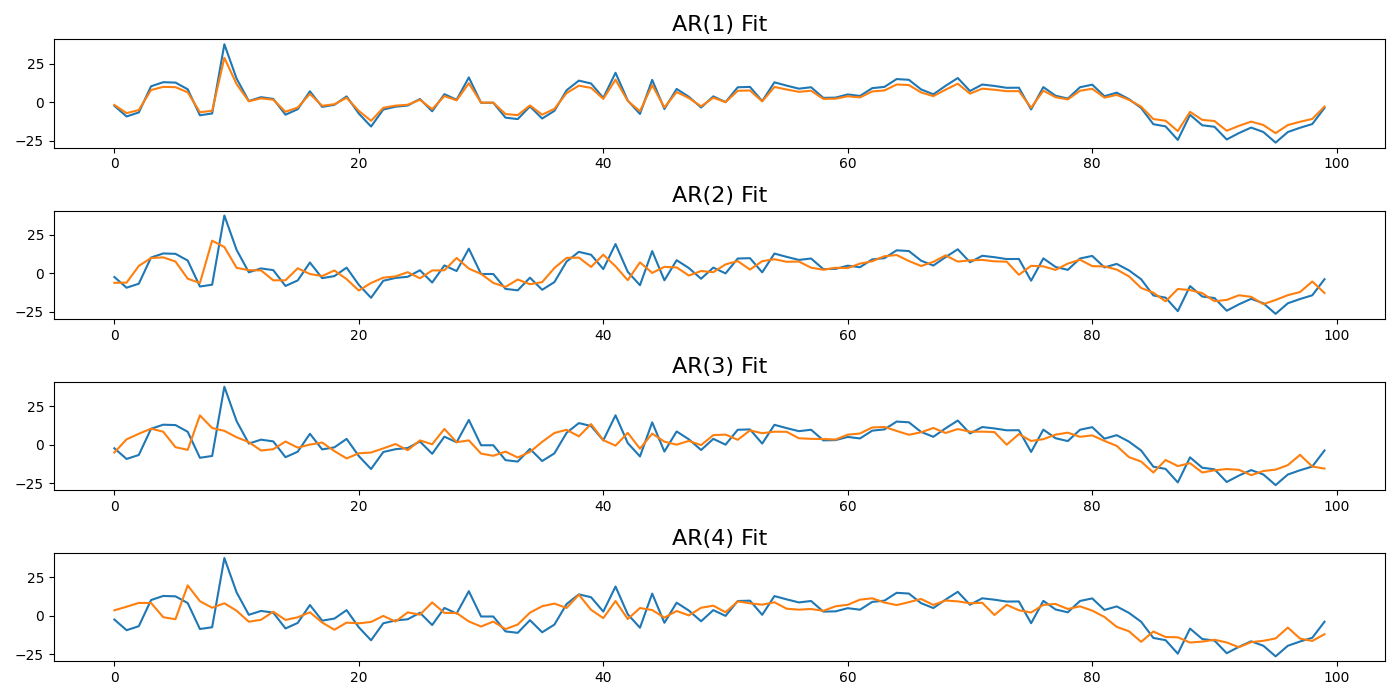
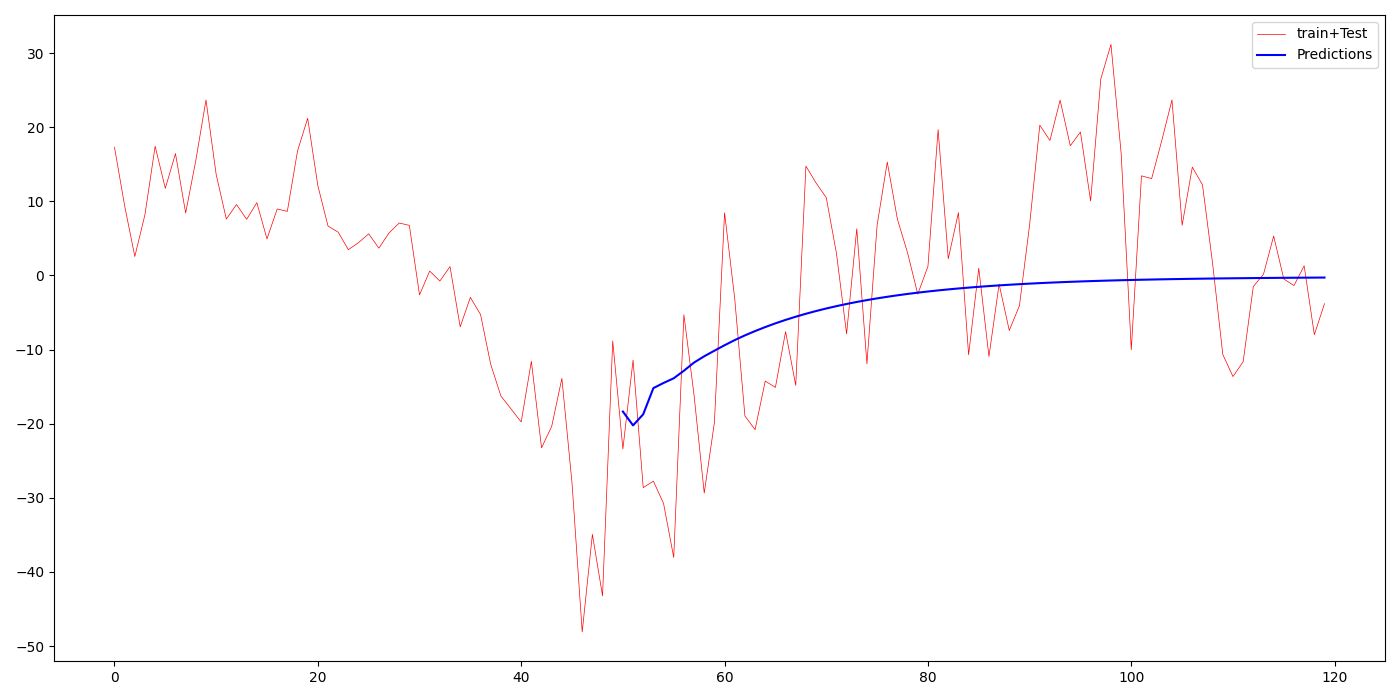
adding criteria

diff --git a/code/Ass1/sun.py b/code/Ass1/sun.py
@@ -1,4 +1,8 @@
 """https://www.machinelearningplus.com/time-series/time-series-analysis-python/"""
+import warnings
+
+warnings.filterwarnings("ignore")
+
 import math
 import os
 
@@ -13,6 +17,8 @@ from sklearn.metrics import mean_squared_error
 from statsmodels.graphics.tsaplots import plot_acf, plot_pacf
 from statsmodels.tsa import seasonal, stattools
 from statsmodels.tsa.ar_model import AutoReg
+from statsmodels.tsa.arima_model import ARIMA
+
 
 plt.rcParams["figure.figsize"] = (14, 7)
 a = "Ass1_D2_"
@@ -353,7 +359,6 @@ plt.savefig(os.path.join(fig_dir, a + "PACF_ACF_series.png"))
 #########               stationary test: Lag Plots                ##########
 ############################################################################
 
-'''(Points get wide and scattered with increasing lag -> lesser correlation)\n"'''
 print("[INFO] Lag plot for residual component...")
 
 fig, axes = plt.subplots(2, 2, sharex=True, sharey=True, dpi=100)
@@ -394,6 +399,8 @@ plt.savefig(os.path.join(fig_dir, a + "Lag_Plots_2_diff.png"))
 """
 https://towardsdatascience.com/trend-seasonality-moving-average-auto-regressive-model-my-journey-to-time-series-data-with-edc4c0c8284b
 """
+
+
 X = decomposition_STL.resid.values
 
 plt.figure()
@@ -416,12 +423,15 @@ RMS_list = list()
 cof_list = list()
 ord_list = list()
 col_list = list()
+mae_list = list()
+mpe_list = list()
+cor_list = list()
 
 
 for idx, ar_order in enumerate(ar_orders):
 
     print("[INFO] train autoregression...")
-    model = AutoReg(train, lags=ar_order)
+    model = ARIMA(train, order=(ar_order, 0, 0))
     model_fit = model.fit()
 
     fitted_model_dict[ar_order] = model_fit
@@ -434,9 +444,20 @@ for idx, ar_order in enumerate(ar_orders):
     predictions = model_fit.predict(
         start=len(train), end=len(train) + len(test) - 1, dynamic=False
     )
-    rmse = np.sqrt(mean_squared_error(test, predictions))
-    print("\n[INFO] RMS Error: {:1.2f}".format(rmse))
-    RMS_list.append("{:2.3f}".format(rmse))
+
+    RMS_list.append("{:2.3f}".format(np.sqrt(mean_squared_error(test, predictions))))
+    mae_list.append("{:2.3f}".format(np.mean(np.abs(predictions - test))))
+    mpe_list.append("{:2.3f}".format(np.mean((predictions - test) / test)))
+    cor_list.append("{:2.3f}".format(np.corrcoef(predictions, test)[0, 1]))
+
+    plt.figure()
+    xpos = np.arange(len(X))
+    plt.plot(X[2700:], "r", linewidth=0.5)
+    plt.plot(
+        xpos[len(X) - n_predict - 2700 : len(X) - 2700], predictions[:], color="blue"
+    )
+    plt.legend(["train+Test", "Predictions"])
+    plt.savefig(os.path.join(fig_dir, a + "_" + str(idx + 1) + "_AR2.png"))
 
 
 plt.tight_layout()
@@ -451,24 +472,12 @@ for ar_order in ar_orders:
 
 
 df = pd.DataFrame(
-    np.row_stack([ord_list, AIC_list, BIC_list, RMS_list]),
-    index=["AR order", "AIC", "BIC", "RMS error"],
+    np.row_stack(
+        [ord_list, AIC_list, BIC_list, RMS_list, cor_list, mpe_list, mae_list]
+    ),
+    index=["lag(s)", "AIC", "BIC", "RMS error", "Correlation", "MPE", "MAE"],
 )
 df.columns = col_list
 print(df)
 with open(os.path.join(tbl_dir, a + "AR.tex"), "w") as tf:
     tf.write(df.to_latex(index=True))
-
-plt.figure()
-plt.plot(test, color="red")
-plt.plot(predictions, color="blue")
-plt.legend(["Test", "Predictions"])
-plt.savefig(os.path.join(fig_dir, a + "AR.png"))
-
-
-plt.figure()
-xpos = np.arange(len(X))
-plt.plot(X[2700:], "r", linewidth=0.5)
-plt.plot(xpos[len(X) - n_predict - 2700 : len(X) - 2700], predictions[:], color="blue")
-plt.legend(["train+Test", "Predictions"])
-plt.savefig(os.path.join(fig_dir, a + "AR2.png"))

diff --git a/code/Ass1/Temp.py b/code/Ass1/Temp.py
@@ -1,4 +1,8 @@
 """https://www.machinelearningplus.com/time-series/time-series-analysis-python/"""
+import warnings
+
+warnings.filterwarnings("ignore")
+
 import math
 import os
 
@@ -14,6 +18,8 @@ from sklearn.metrics import mean_squared_error
 from statsmodels.graphics.tsaplots import plot_acf, plot_pacf
 from statsmodels.tsa import seasonal, stattools
 from statsmodels.tsa.ar_model import AutoReg
+from statsmodels.tsa.arima_model import ARIMA
+
 
 plt.rcParams["figure.figsize"] = (14, 7)
 a = "Ass1_D1_"
@@ -343,12 +349,15 @@ RMS_list = list()
 cof_list = list()
 ord_list = list()
 col_list = list()
+mae_list = list()
+mpe_list = list()
+cor_list = list()
 
 
 for idx, ar_order in enumerate(ar_orders):
 
     print("[INFO] train autoregression...")
-    model = AutoReg(train, lags=ar_order)
+    model = ARIMA(train, order=(ar_order, 0, 0))
     model_fit = model.fit()
 
     fitted_model_dict[ar_order] = model_fit
@@ -361,9 +370,20 @@ for idx, ar_order in enumerate(ar_orders):
     predictions = model_fit.predict(
         start=len(train), end=len(train) + len(test) - 1, dynamic=False
     )
-    rmse = np.sqrt(mean_squared_error(test, predictions))
-    print("\n[INFO] RMS Error: {:1.2f}".format(rmse))
-    RMS_list.append("{:2.3f}".format(rmse))
+
+    RMS_list.append("{:2.3f}".format(np.sqrt(mean_squared_error(test, predictions))))
+    mae_list.append("{:2.3f}".format(np.mean(np.abs(predictions - test))))
+    mpe_list.append("{:2.3f}".format(np.mean((predictions - test) / test)))
+    cor_list.append("{:2.3f}".format(np.corrcoef(predictions, test)[0, 1]))
+
+    plt.figure()
+    xpos = np.arange(len(X))
+    plt.plot(X[3500:], "r", linewidth=0.5)
+    plt.plot(
+        xpos[len(X) - n_predict - 3500 : len(X) - 3500], predictions[:], color="blue"
+    )
+    plt.legend(["train+Test", "Predictions"])
+    plt.savefig(os.path.join(fig_dir, a + "_" + str(idx + 1) + "_AR2.png"))
 
 
 plt.tight_layout()
@@ -378,24 +398,12 @@ for ar_order in ar_orders:
 
 
 df = pd.DataFrame(
-    np.row_stack([ord_list, AIC_list, BIC_list, RMS_list]),
-    index=["AR order", "AIC", "BIC", "RMS error"],
+    np.row_stack(
+        [ord_list, AIC_list, BIC_list, RMS_list, cor_list, mpe_list, mae_list]
+    ),
+    index=["lag(s)", "AIC", "BIC", "RMS error", "Correlation", "MPE", "MAE"],
 )
 df.columns = col_list
 print(df)
 with open(os.path.join(tbl_dir, a + "AR.tex"), "w") as tf:
     tf.write(df.to_latex(index=True))
-
-plt.figure()
-plt.plot(test, color="red")
-plt.plot(predictions, color="blue")
-plt.legend(["Test", "Predictions"])
-plt.savefig(os.path.join(fig_dir, a + "AR.png"))
-
-
-plt.figure()
-xpos = np.arange(len(X))
-plt.plot(X[3500:], "r", linewidth=0.5)
-plt.plot(xpos[len(X) - n_predict - 3500 : len(X) - 3500], predictions[:], color="blue")
-plt.legend(["train+Test", "Predictions"])
-plt.savefig(os.path.join(fig_dir, a + "AR2.png"))

diff --git a/manuscript/src/tables/Ass1/Ass1_D2_AR.tex b/manuscript/src/tables/Ass1/Ass1_D2_AR.tex
@@ -1,10 +1,13 @@
 \begin{tabular}{lllll}
 \toprule
-{} &  AR(1) &  AR(2) &   AR(3) &   AR(4) \\
+{} &      AR(1) &      AR(2) &      AR(3) &      AR(4) \\
 \midrule
-AR order  &      1 &      2 &       3 &       4 \\
-AIC       &  5.134 &  5.090 &   5.055 &   5.040 \\
-BIC       &  5.140 &  5.098 &   5.065 &   5.053 \\
-RMS error &  7.780 &  8.643 &  10.094 &  11.064 \\
+lag(s)      &          1 &          2 &          3 &          4 \\
+AIC         &  21920.775 &  21801.296 &  21701.435 &  21665.216 \\
+BIC         &  21938.532 &  21824.972 &  21731.030 &  21700.730 \\
+RMS error   &     14.587 &     13.772 &     13.192 &     13.035 \\
+Correlation &      0.491 &      0.580 &      0.628 &      0.644 \\
+MPE         &     -0.984 &     -0.946 &     -0.920 &     -0.927 \\
+MAE         &     11.956 &     11.287 &     11.006 &     10.833 \\
 \bottomrule
 \end{tabular}

diff --git a/manuscript/src/tables/Ass1/Ass1_D1_AR.tex b/manuscript/src/tables/Ass1/Ass1_D1_AR.tex
@@ -1,10 +1,13 @@
 \begin{tabular}{lll}
 \toprule
-{} &  AR(1) &  AR(2) \\
+{} &      AR(1) &      AR(2) \\
 \midrule
-AR order  &      1 &      2 \\
-AIC       &  1.288 &  1.277 \\
-BIC       &  1.293 &  1.284 \\
-RMS error &  1.149 &  1.156 \\
+lag(s)      &          1 &          2 \\
+AIC         &  14995.448 &  14956.605 \\
+BIC         &  15014.043 &  14981.399 \\
+RMS error   &      1.149 &      1.157 \\
+Correlation &      0.289 &      0.284 \\
+MPE         &     -1.078 &     -0.950 \\
+MAE         &      0.857 &      0.851 \\
 \bottomrule
 \end{tabular}
